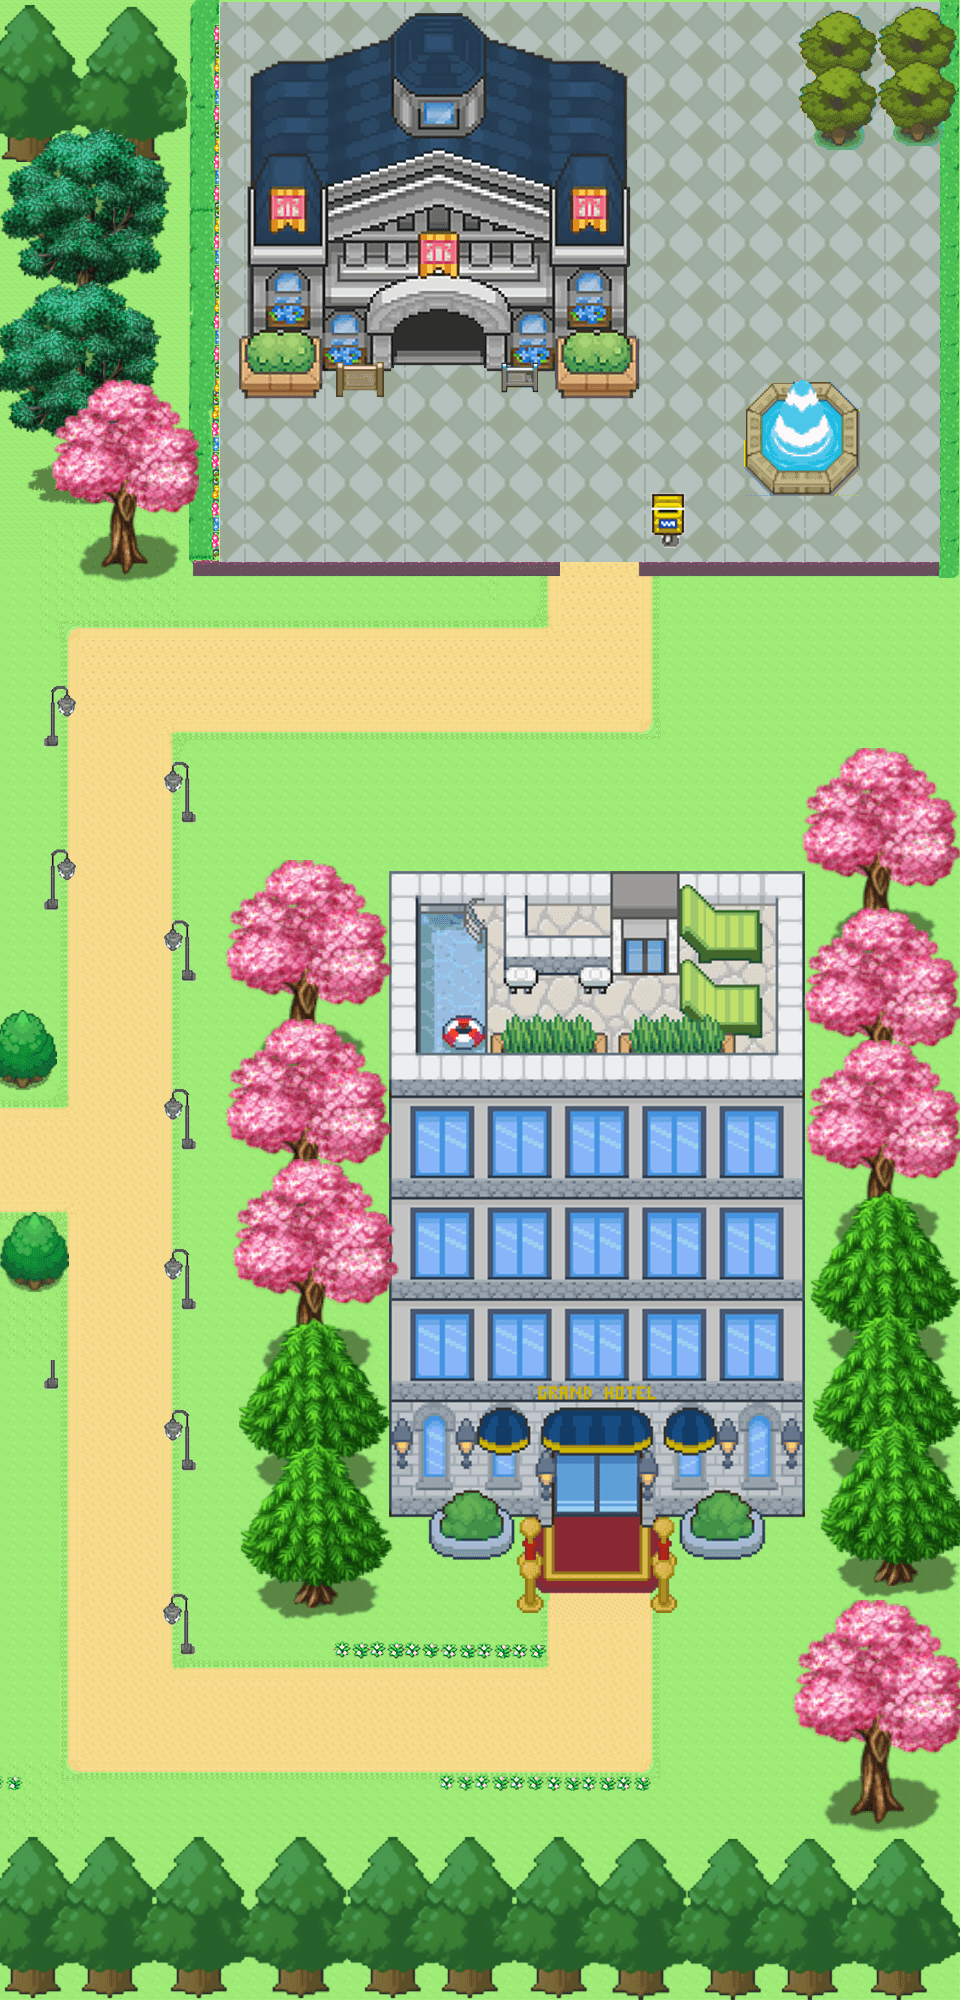
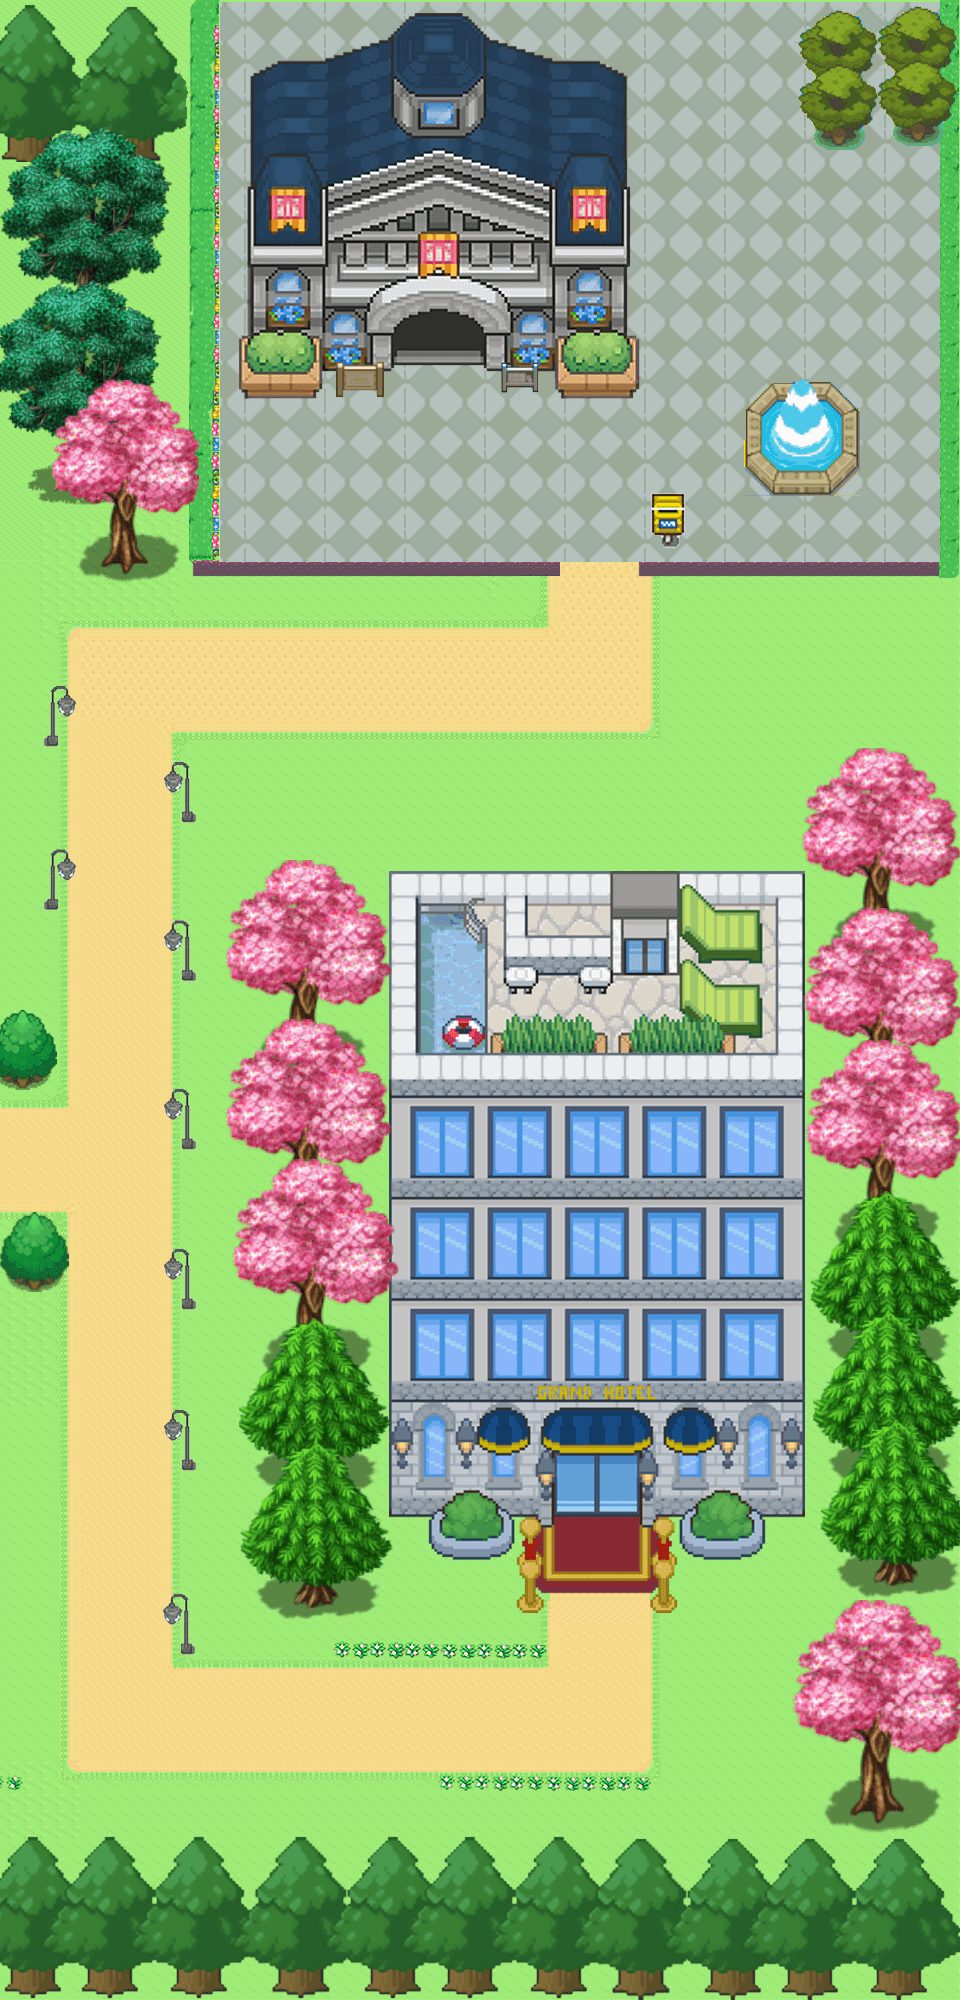
Bug in town south map

Changed region(s): [[0.5312, 0.775, 0.5625, 0.806], [0.0312, 0.682, 0.0625, 0.713]]

diff --git a/src/data/Maps/town_south.js b/src/data/Maps/town_south.js
@@ -18,7 +18,7 @@ export const townSouth = {
         [  10,   0,  10,  10,  10,  10,  10,  10,  10,  10,  10,  10,],
         [  10,   0,  10,  10,  10,  10,  10,  10,  10,  10,  10,  10,],
         [   0,   0,  10,  10,  10,  10,  10,  10,  10,  10,  10,  10,],
-        [   0,   0,  10,  10,  10,  10,  10,  10,  10,  10,  10,  10,],
+        [  10,   0,  10,  10,  10,  10,  10,  10,  10,  10,  10,  10,],
         [  10,   0,  10,  10,  10,  10,  10,  10,  10,  10,  10,  10,],
         [  10,   0,  10,  10,  10,  10,  10,  10,  10,  10,  10,  10,],
         [  10,   0,  10,  10,  10,  10,  10,  10,  10,  10,  10,  10,],
